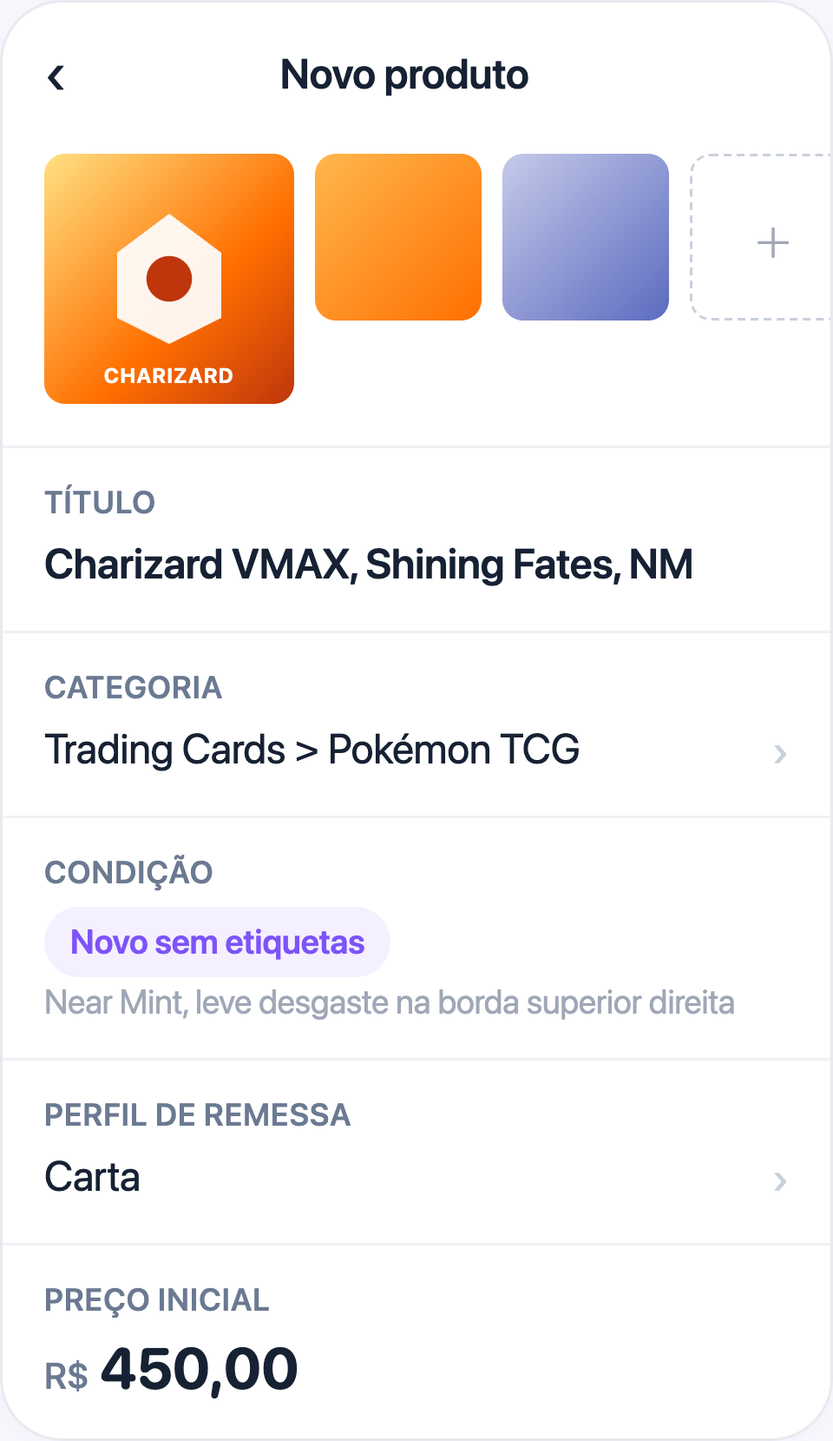
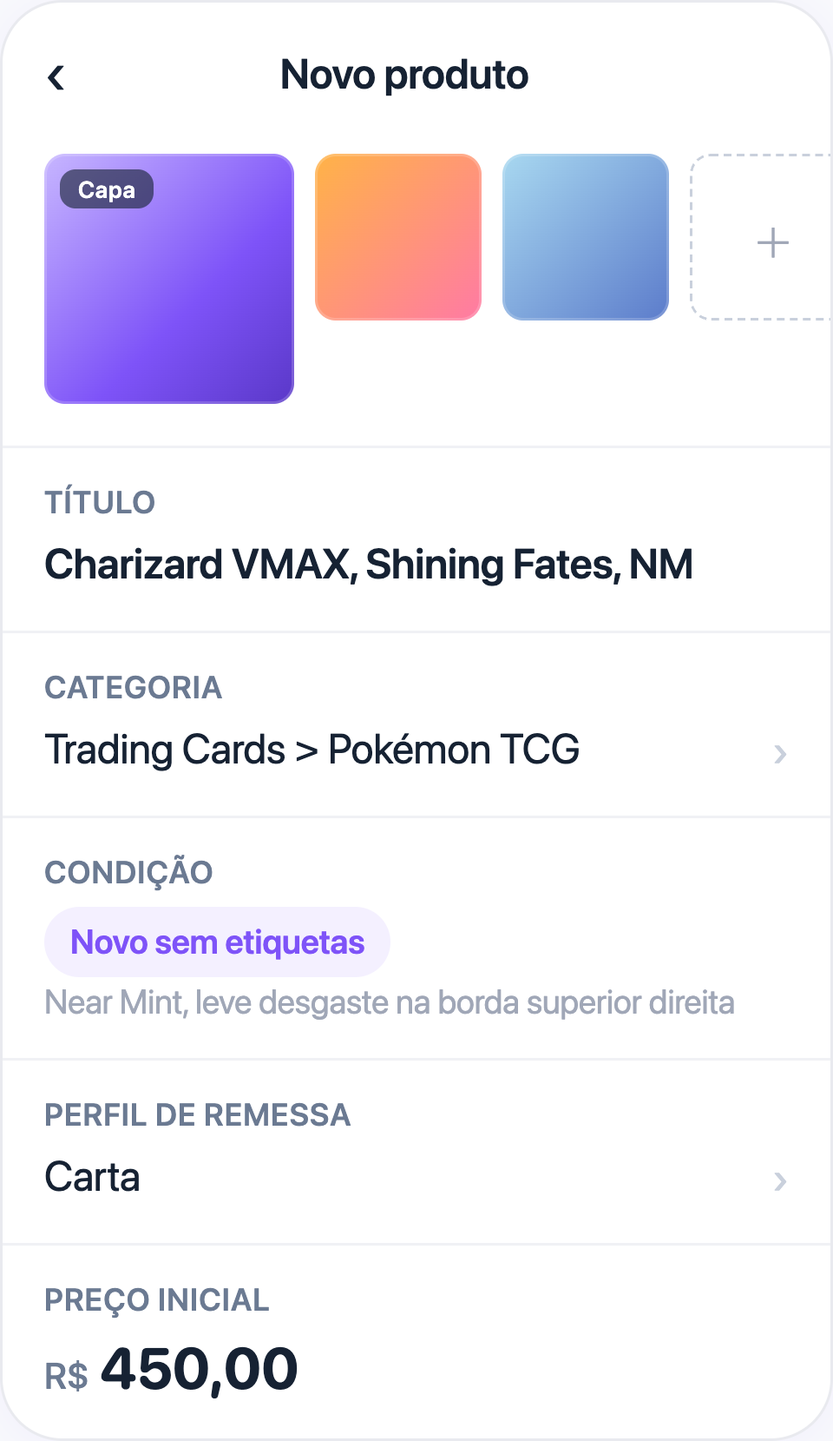
cards-collectibles: clean Jamble DA on sample-listing + photo-checklist + condition-guide
Aymar flagged: 'fait ca proprement, utilise les vrais couleurs, les vraies icones'.

- sample-listing: replace orange hexagon 'CHARIZARD' cartoon with clean
  Jamble-purple gradient cover placeholder + 'Cover' badge. Other thumbs use
  soft orange-pink and blue gradients (no characters).
- photo-checklist: replace cartoon hexagons in good/bad cells with realistic
  card-shaped placeholders (purple gradient on dark bg = good, with glare
  hotspot or blur = bad).
- condition-guide: replace orange swatches with photo-style mini-cards
  showing progressive wear (clean -> scuff -> scratch -> bent corner ->
  heavy creases) on dark bg, using brand purple.
- pack-opening-toggle: re-rendered for consistency (already clean).

All 8 PNGs (4 mockups x 2 locales) re-rendered at DPR3.

Changed region(s): [[0.0312, 0.0922, 0.6562, 0.3074], [0.7812, 0.1844, 0.8125, 0.2152]]

diff --git a/articles/cards-and-collectibles-best-practices-for-sellers/mockup-sources/condition-guide__en.html b/articles/cards-and-collectibles-best-practices-for-sellers/mockup-sources/condition-guide__en.html
@@ -7,13 +7,29 @@ body { font-family: -apple-system, "SF Pro Display", BlinkMacSystemFont, system-
 .section-title { font-size: 12px; font-weight: 600; color: #6B7A92; text-transform: uppercase; letter-spacing: 0.4px; padding: 12px 16px 6px; }
 
 .row { display: flex; align-items: flex-start; padding: 12px 16px; border-top: 1px solid #F0F1F5; gap: 12px; }
-.swatch { width: 56px; height: 56px; border-radius: 8px; flex-shrink: 0; background: linear-gradient(135deg, #FFE082 0%, #FF6F00 60%, #BF360C 100%); display: flex; align-items: center; justify-content: center; }
-.swatch svg { width: 36px; height: 36px; }
-.swatch.s1 { filter: none; }
-.swatch.s2 { filter: brightness(0.96) contrast(0.98); }
-.swatch.s3 { filter: brightness(0.92) contrast(0.95) saturate(0.9); }
-.swatch.s4 { filter: brightness(0.86) contrast(0.92) saturate(0.78); }
-.swatch.s5 { filter: brightness(0.78) contrast(0.88) saturate(0.6) sepia(0.15); }
+
+.swatch { width: 56px; height: 56px; border-radius: 8px; flex-shrink: 0; background: radial-gradient(ellipse at center, #1F2A3B 0%, #0E1623 100%); display: flex; align-items: center; justify-content: center; position: relative; overflow: hidden; }
+.swatch .card { width: 60%; height: 78%; border-radius: 4px; background: linear-gradient(160deg, #C7B6FF 0%, #7E53F8 55%, #5A38C8 100%); position: relative; box-shadow: 0 1px 3px rgba(0,0,0,0.4), inset 0 0 0 1px rgba(255,255,255,0.18); overflow: hidden; }
+.swatch .card::before { content: ""; position: absolute; inset: 4px 4px auto 4px; height: 36%; border-radius: 2px; background: rgba(255,255,255,0.12); }
+
+/* s1: pristine */
+
+/* s2: NM — one tiny scuff top-right */
+.swatch.s2 .card::after { content: ""; position: absolute; top: 6%; right: 8%; width: 16%; height: 4%; background: rgba(255,255,255,0.32); border-radius: 1px; transform: rotate(-15deg); }
+
+/* s3: LP — small scratch + corner ding */
+.swatch.s3 .card::after { content: ""; position: absolute; top: 30%; left: 10%; width: 60%; height: 3%; background: rgba(255,255,255,0.30); border-radius: 1px; transform: rotate(-6deg); box-shadow: 0 8px 0 -1px rgba(0,0,0,0.18); }
+
+/* s4: MP — bent corner + visible smudges */
+.swatch.s4 .card { background: linear-gradient(160deg, #B5A5E8 0%, #7048D8 55%, #4F2EB0 100%); }
+.swatch.s4 .card::after { content: ""; position: absolute; bottom: -6%; right: -6%; width: 30%; height: 30%; background: #0E1623; transform: rotate(45deg); border-radius: 2px; }
+
+/* s5: HP — heavy creases (X across), darker desat */
+.swatch.s5 .card { background: linear-gradient(160deg, #9C8DC8 0%, #5A40A8 55%, #3F267D 100%); }
+.swatch.s5 .card::after { content: ""; position: absolute; top: 0; left: 0; right: 0; bottom: 0; background:
+  linear-gradient(28deg, transparent 47%, rgba(0,0,0,0.55) 49%, rgba(255,255,255,0.20) 51%, transparent 53%),
+  linear-gradient(-32deg, transparent 47%, rgba(0,0,0,0.45) 49%, rgba(255,255,255,0.16) 51%, transparent 53%);
+}
 
 .row-info { flex: 1; min-width: 0; }
 .row-head { display: flex; align-items: center; gap: 8px; margin-bottom: 3px; flex-wrap: wrap; }
@@ -31,7 +47,7 @@ body { font-family: -apple-system, "SF Pro Display", BlinkMacSystemFont, system-
 <div class="section-title">TCG Cards</div>
 
 <div class="row">
-<div class="swatch s1"><svg viewBox="0 0 24 24"><path d="M12 2 L20 8 L20 18 L12 22 L4 18 L4 8 Z" fill="#FFFFFF" opacity="0.95"/><circle cx="12" cy="12" r="3.5" fill="#BF360C"/></svg></div>
+<div class="swatch s1"><div class="card"></div></div>
 <div class="row-info">
 <div class="row-head"><span class="pill pill-1">PSA 10 / Mint</span></div>
 <div class="row-name">New with Tags</div>
@@ -40,7 +56,7 @@ body { font-family: -apple-system, "SF Pro Display", BlinkMacSystemFont, system-
 </div>
 
 <div class="row">
-<div class="swatch s2"><svg viewBox="0 0 24 24"><path d="M12 2 L20 8 L20 18 L12 22 L4 18 L4 8 Z" fill="#FFFFFF" opacity="0.95"/><circle cx="12" cy="12" r="3.5" fill="#BF360C"/></svg></div>
+<div class="swatch s2"><div class="card"></div></div>
 <div class="row-info">
 <div class="row-head"><span class="pill pill-2">NM, Near Mint</span></div>
 <div class="row-name">New without Tags</div>
@@ -49,7 +65,7 @@ body { font-family: -apple-system, "SF Pro Display", BlinkMacSystemFont, system-
 </div>
 
 <div class="row">
-<div class="swatch s3"><svg viewBox="0 0 24 24"><path d="M12 2 L20 8 L20 18 L12 22 L4 18 L4 8 Z" fill="#FFFFFF" opacity="0.95"/><circle cx="12" cy="12" r="3.5" fill="#BF360C"/></svg></div>
+<div class="swatch s3"><div class="card"></div></div>
 <div class="row-info">
 <div class="row-head"><span class="pill pill-3">LP, Light Play</span></div>
 <div class="row-name">Very Good</div>
@@ -58,7 +74,7 @@ body { font-family: -apple-system, "SF Pro Display", BlinkMacSystemFont, system-
 </div>
 
 <div class="row">
-<div class="swatch s4"><svg viewBox="0 0 24 24"><path d="M12 2 L20 8 L20 18 L12 22 L4 18 L4 8 Z" fill="#FFFFFF" opacity="0.95"/><circle cx="12" cy="12" r="3.5" fill="#BF360C"/></svg></div>
+<div class="swatch s4"><div class="card"></div></div>
 <div class="row-info">
 <div class="row-head"><span class="pill pill-4">MP, Moderately Played</span></div>
 <div class="row-name">Good</div>
@@ -67,7 +83,7 @@ body { font-family: -apple-system, "SF Pro Display", BlinkMacSystemFont, system-
 </div>
 
 <div class="row">
-<div class="swatch s5"><svg viewBox="0 0 24 24"><path d="M12 2 L20 8 L20 18 L12 22 L4 18 L4 8 Z" fill="#FFFFFF" opacity="0.95"/><circle cx="12" cy="12" r="3.5" fill="#BF360C"/></svg></div>
+<div class="swatch s5"><div class="card"></div></div>
 <div class="row-info">
 <div class="row-head"><span class="pill pill-5">HP, Heavily Played</span></div>
 <div class="row-name">Satisfactory</div>

diff --git a/articles/cards-and-collectibles-best-practices-for-sellers/mockup-sources/condition-guide__pt-br.html b/articles/cards-and-collectibles-best-practices-for-sellers/mockup-sources/condition-guide__pt-br.html
@@ -7,13 +7,23 @@ body { font-family: -apple-system, "SF Pro Display", BlinkMacSystemFont, system-
 .section-title { font-size: 12px; font-weight: 600; color: #6B7A92; text-transform: uppercase; letter-spacing: 0.4px; padding: 12px 16px 6px; }
 
 .row { display: flex; align-items: flex-start; padding: 12px 16px; border-top: 1px solid #F0F1F5; gap: 12px; }
-.swatch { width: 56px; height: 56px; border-radius: 8px; flex-shrink: 0; background: linear-gradient(135deg, #FFE082 0%, #FF6F00 60%, #BF360C 100%); display: flex; align-items: center; justify-content: center; }
-.swatch svg { width: 36px; height: 36px; }
-.swatch.s1 { filter: none; }
-.swatch.s2 { filter: brightness(0.96) contrast(0.98); }
-.swatch.s3 { filter: brightness(0.92) contrast(0.95) saturate(0.9); }
-.swatch.s4 { filter: brightness(0.86) contrast(0.92) saturate(0.78); }
-.swatch.s5 { filter: brightness(0.78) contrast(0.88) saturate(0.6) sepia(0.15); }
+
+.swatch { width: 56px; height: 56px; border-radius: 8px; flex-shrink: 0; background: radial-gradient(ellipse at center, #1F2A3B 0%, #0E1623 100%); display: flex; align-items: center; justify-content: center; position: relative; overflow: hidden; }
+.swatch .card { width: 60%; height: 78%; border-radius: 4px; background: linear-gradient(160deg, #C7B6FF 0%, #7E53F8 55%, #5A38C8 100%); position: relative; box-shadow: 0 1px 3px rgba(0,0,0,0.4), inset 0 0 0 1px rgba(255,255,255,0.18); overflow: hidden; }
+.swatch .card::before { content: ""; position: absolute; inset: 4px 4px auto 4px; height: 36%; border-radius: 2px; background: rgba(255,255,255,0.12); }
+
+.swatch.s2 .card::after { content: ""; position: absolute; top: 6%; right: 8%; width: 16%; height: 4%; background: rgba(255,255,255,0.32); border-radius: 1px; transform: rotate(-15deg); }
+
+.swatch.s3 .card::after { content: ""; position: absolute; top: 30%; left: 10%; width: 60%; height: 3%; background: rgba(255,255,255,0.30); border-radius: 1px; transform: rotate(-6deg); box-shadow: 0 8px 0 -1px rgba(0,0,0,0.18); }
+
+.swatch.s4 .card { background: linear-gradient(160deg, #B5A5E8 0%, #7048D8 55%, #4F2EB0 100%); }
+.swatch.s4 .card::after { content: ""; position: absolute; bottom: -6%; right: -6%; width: 30%; height: 30%; background: #0E1623; transform: rotate(45deg); border-radius: 2px; }
+
+.swatch.s5 .card { background: linear-gradient(160deg, #9C8DC8 0%, #5A40A8 55%, #3F267D 100%); }
+.swatch.s5 .card::after { content: ""; position: absolute; top: 0; left: 0; right: 0; bottom: 0; background:
+  linear-gradient(28deg, transparent 47%, rgba(0,0,0,0.55) 49%, rgba(255,255,255,0.20) 51%, transparent 53%),
+  linear-gradient(-32deg, transparent 47%, rgba(0,0,0,0.45) 49%, rgba(255,255,255,0.16) 51%, transparent 53%);
+}
 
 .row-info { flex: 1; min-width: 0; }
 .row-head { display: flex; align-items: center; gap: 8px; margin-bottom: 3px; flex-wrap: wrap; }
@@ -31,7 +41,7 @@ body { font-family: -apple-system, "SF Pro Display", BlinkMacSystemFont, system-
 <div class="section-title">Cards de TCG</div>
 
 <div class="row">
-<div class="swatch s1"><svg viewBox="0 0 24 24"><path d="M12 2 L20 8 L20 18 L12 22 L4 18 L4 8 Z" fill="#FFFFFF" opacity="0.95"/><circle cx="12" cy="12" r="3.5" fill="#BF360C"/></svg></div>
+<div class="swatch s1"><div class="card"></div></div>
 <div class="row-info">
 <div class="row-head"><span class="pill pill-1">PSA 10 / Mint</span></div>
 <div class="row-name">Novo com etiquetas</div>
@@ -40,7 +50,7 @@ body { font-family: -apple-system, "SF Pro Display", BlinkMacSystemFont, system-
 </div>
 
 <div class="row">
-<div class="swatch s2"><svg viewBox="0 0 24 24"><path d="M12 2 L20 8 L20 18 L12 22 L4 18 L4 8 Z" fill="#FFFFFF" opacity="0.95"/><circle cx="12" cy="12" r="3.5" fill="#BF360C"/></svg></div>
+<div class="swatch s2"><div class="card"></div></div>
 <div class="row-info">
 <div class="row-head"><span class="pill pill-2">NM, Near Mint</span></div>
 <div class="row-name">Novo sem etiquetas</div>
@@ -49,16 +59,16 @@ body { font-family: -apple-system, "SF Pro Display", BlinkMacSystemFont, system-
 </div>
 
 <div class="row">
-<div class="swatch s3"><svg viewBox="0 0 24 24"><path d="M12 2 L20 8 L20 18 L12 22 L4 18 L4 8 Z" fill="#FFFFFF" opacity="0.95"/><circle cx="12" cy="12" r="3.5" fill="#BF360C"/></svg></div>
+<div class="swatch s3"><div class="card"></div></div>
 <div class="row-info">
 <div class="row-head"><span class="pill pill-3">LP, Light Play</span></div>
 <div class="row-name">Muito bom</div>
-<div class="row-desc">Leve desgaste de jogo. Card jogável e intacta.</div>
+<div class="row-desc">Leve desgaste de jogo. Carta jogável e intacta.</div>
 </div>
 </div>
 
 <div class="row">
-<div class="swatch s4"><svg viewBox="0 0 24 24"><path d="M12 2 L20 8 L20 18 L12 22 L4 18 L4 8 Z" fill="#FFFFFF" opacity="0.95"/><circle cx="12" cy="12" r="3.5" fill="#BF360C"/></svg></div>
+<div class="swatch s4"><div class="card"></div></div>
 <div class="row-info">
 <div class="row-head"><span class="pill pill-4">MP, Moderately Played</span></div>
 <div class="row-name">Bom</div>
@@ -67,7 +77,7 @@ body { font-family: -apple-system, "SF Pro Display", BlinkMacSystemFont, system-
 </div>
 
 <div class="row">
-<div class="swatch s5"><svg viewBox="0 0 24 24"><path d="M12 2 L20 8 L20 18 L12 22 L4 18 L4 8 Z" fill="#FFFFFF" opacity="0.95"/><circle cx="12" cy="12" r="3.5" fill="#BF360C"/></svg></div>
+<div class="swatch s5"><div class="card"></div></div>
 <div class="row-info">
 <div class="row-head"><span class="pill pill-5">HP, Heavily Played</span></div>
 <div class="row-name">Satisfatório</div>

diff --git a/articles/cards-and-collectibles-best-practices-for-sellers/mockup-sources/photo-checklist__pt-br.html b/articles/cards-and-collectibles-best-practices-for-sellers/mockup-sources/photo-checklist__pt-br.html
@@ -14,15 +14,26 @@ body { font-family: -apple-system, "SF Pro Display", BlinkMacSystemFont, system-
 .cross { width: 12px; height: 12px; border-radius: 50%; background: #B12B2B; color: white; font-size: 9px; display: flex; align-items: center; justify-content: center; font-weight: 700; }
 
 .grid { display: grid; grid-template-columns: 1fr 1fr; gap: 8px; padding: 0 12px 8px; }
-.cell { aspect-ratio: 1; border-radius: 8px; overflow: hidden; position: relative; display: flex; align-items: center; justify-content: center; }
-.cell-good-1 { background: #16202B; }
-.cell-good-1 svg { width: 60%; height: 70%; filter: drop-shadow(0 2px 6px rgba(255,255,255,0.06)); }
-.cell-good-2 { background: #1A2230; }
-.cell-good-2 svg { width: 80%; height: 50%; }
-.cell-bad-1 { background: linear-gradient(135deg, #FFD180 0%, #FF6F00 60%, #FFFFFF 65%, #FF6F00 80%, #BF360C 100%); }
-.cell-bad-1 svg { width: 55%; height: 65%; opacity: 0.55; }
-.cell-bad-2 { background: linear-gradient(180deg, #DDDDDD 0%, #888888 100%); position: relative; }
-.cell-bad-2::before { content: ""; position: absolute; inset: 25%; background: rgba(0,0,0,0.45); border-radius: 4px; transform: rotate(-8deg); filter: blur(2px); }
+.cell { aspect-ratio: 1; border-radius: 10px; overflow: hidden; position: relative; }
+
+/* GOOD: portrait card centered on dark bg, sharp edges, gentle highlight */
+.cell-good-1 { background: radial-gradient(ellipse at center, #1F2A3B 0%, #0E1623 100%); display: flex; align-items: center; justify-content: center; }
+.cell-good-1 .card-shape { width: 44%; height: 70%; border-radius: 6px; background: linear-gradient(160deg, #C7B6FF 0%, #7E53F8 55%, #5A38C8 100%); box-shadow: 0 2px 6px rgba(0,0,0,0.45), inset 0 0 0 1.5px rgba(255,255,255,0.18); position: relative; }
+.cell-good-1 .card-shape::after { content: ""; position: absolute; inset: 8px 8px auto 8px; height: 38%; border-radius: 3px; background: rgba(255,255,255,0.10); }
+
+/* GOOD 2: card in toploader, back visible, lit evenly */
+.cell-good-2 { background: radial-gradient(ellipse at center, #1F2A3B 0%, #0E1623 100%); display: flex; align-items: center; justify-content: center; }
+.cell-good-2 .toploader { width: 56%; height: 78%; border-radius: 4px; background: rgba(255,255,255,0.06); box-shadow: inset 0 0 0 1.5px rgba(255,255,255,0.35); display: flex; align-items: center; justify-content: center; padding: 4px; }
+.cell-good-2 .toploader .card-back { width: 100%; height: 100%; border-radius: 3px; background: linear-gradient(140deg, #2D5BD7 0%, #162233 100%); box-shadow: inset 0 0 0 1px rgba(255,255,255,0.10); }
+
+/* BAD 1: glare hotspot, blown highlights on foil */
+.cell-bad-1 { background: linear-gradient(135deg, #2A2438 0%, #1A2230 60%, #0E1623 100%); display: flex; align-items: center; justify-content: center; position: relative; overflow: hidden; }
+.cell-bad-1 .card-shape { width: 44%; height: 70%; border-radius: 6px; background: linear-gradient(160deg, #C7B6FF 0%, #7E53F8 55%, #5A38C8 100%); position: relative; overflow: hidden; box-shadow: 0 2px 6px rgba(0,0,0,0.45); }
+.cell-bad-1 .glare { position: absolute; top: -40%; left: -10%; width: 140%; height: 180%; background: linear-gradient(115deg, transparent 38%, rgba(255,255,255,0.92) 48%, rgba(255,255,255,0.98) 52%, transparent 62%); transform: rotate(-12deg); pointer-events: none; }
+
+/* BAD 2: out of focus, off-center */
+.cell-bad-2 { background: linear-gradient(180deg, #DDDDDD 0%, #888888 100%); display: flex; align-items: center; justify-content: flex-start; padding: 22% 0 0 16%; }
+.cell-bad-2 .blur-card { width: 50%; height: 64%; border-radius: 6px; background: linear-gradient(160deg, rgba(126,83,248,0.55) 0%, rgba(90,56,200,0.65) 100%); transform: rotate(-8deg); filter: blur(3px); box-shadow: 0 4px 14px rgba(0,0,0,0.35); }
 
 .cap { padding: 4px 8px; font-size: 11px; color: #6B7A92; text-align: center; line-height: 14px; min-height: 30px; }
 .cap-row { display: grid; grid-template-columns: 1fr 1fr; gap: 8px; padding: 0 12px; }
@@ -36,8 +47,8 @@ body { font-family: -apple-system, "SF Pro Display", BlinkMacSystemFont, system-
 </div>
 
 <div class="grid">
-<div class="cell cell-good-1"><svg viewBox="0 0 24 24"><path d="M12 2 L20 8 L20 18 L12 22 L4 18 L4 8 Z" fill="#FF6F00"/><circle cx="12" cy="12" r="3" fill="#FFE082"/></svg></div>
-<div class="cell cell-bad-1"><svg viewBox="0 0 24 24"><path d="M12 2 L20 8 L20 18 L12 22 L4 18 L4 8 Z" fill="#BF360C"/><circle cx="12" cy="12" r="3" fill="#FFE082"/></svg></div>
+<div class="cell cell-good-1"><div class="card-shape"></div></div>
+<div class="cell cell-bad-1"><div class="card-shape"></div><div class="glare"></div></div>
 </div>
 <div class="cap-row">
 <div class="cap">Fundo escuro liso, foco nítido</div>
@@ -45,11 +56,11 @@ body { font-family: -apple-system, "SF Pro Display", BlinkMacSystemFont, system-
 </div>
 
 <div class="grid" style="margin-top: 4px;">
-<div class="cell cell-good-2"><svg viewBox="0 0 60 38"><rect x="2" y="2" width="56" height="34" rx="2" fill="#FF6F00" stroke="#FFFFFF" stroke-width="0.5"/><rect x="6" y="6" width="48" height="26" rx="1" fill="#FFE082" opacity="0.8"/></svg></div>
-<div class="cell cell-bad-2"></div>
+<div class="cell cell-good-2"><div class="toploader"><div class="card-back"></div></div></div>
+<div class="cell cell-bad-2"><div class="blur-card"></div></div>
 </div>
 <div class="cap-row">
-<div class="cap">Verso da card e toploader visíveis</div>
+<div class="cap">Verso da carta e toploader visíveis</div>
 <div class="cap">Foto desfocada, desencaixada</div>
 </div>
 

diff --git a/articles/cards-and-collectibles-best-practices-for-sellers/mockup-sources/photo-checklist__en.html b/articles/cards-and-collectibles-best-practices-for-sellers/mockup-sources/photo-checklist__en.html
@@ -14,15 +14,26 @@ body { font-family: -apple-system, "SF Pro Display", BlinkMacSystemFont, system-
 .cross { width: 12px; height: 12px; border-radius: 50%; background: #B12B2B; color: white; font-size: 9px; display: flex; align-items: center; justify-content: center; font-weight: 700; }
 
 .grid { display: grid; grid-template-columns: 1fr 1fr; gap: 8px; padding: 0 12px 8px; }
-.cell { aspect-ratio: 1; border-radius: 8px; overflow: hidden; position: relative; display: flex; align-items: center; justify-content: center; }
-.cell-good-1 { background: #16202B; }
-.cell-good-1 svg { width: 60%; height: 70%; filter: drop-shadow(0 2px 6px rgba(255,255,255,0.06)); }
-.cell-good-2 { background: #1A2230; }
-.cell-good-2 svg { width: 80%; height: 50%; }
-.cell-bad-1 { background: linear-gradient(135deg, #FFD180 0%, #FF6F00 60%, #FFFFFF 65%, #FF6F00 80%, #BF360C 100%); }
-.cell-bad-1 svg { width: 55%; height: 65%; opacity: 0.55; }
-.cell-bad-2 { background: linear-gradient(180deg, #DDDDDD 0%, #888888 100%); position: relative; }
-.cell-bad-2::before { content: ""; position: absolute; inset: 25%; background: rgba(0,0,0,0.45); border-radius: 4px; transform: rotate(-8deg); filter: blur(2px); }
+.cell { aspect-ratio: 1; border-radius: 10px; overflow: hidden; position: relative; }
+
+/* GOOD: portrait card centered on dark bg, sharp edges, gentle highlight */
+.cell-good-1 { background: radial-gradient(ellipse at center, #1F2A3B 0%, #0E1623 100%); display: flex; align-items: center; justify-content: center; }
+.cell-good-1 .card-shape { width: 44%; height: 70%; border-radius: 6px; background: linear-gradient(160deg, #C7B6FF 0%, #7E53F8 55%, #5A38C8 100%); box-shadow: 0 2px 6px rgba(0,0,0,0.45), inset 0 0 0 1.5px rgba(255,255,255,0.18); position: relative; }
+.cell-good-1 .card-shape::after { content: ""; position: absolute; inset: 8px 8px auto 8px; height: 38%; border-radius: 3px; background: rgba(255,255,255,0.10); }
+
+/* GOOD 2: card in toploader, back visible, lit evenly */
+.cell-good-2 { background: radial-gradient(ellipse at center, #1F2A3B 0%, #0E1623 100%); display: flex; align-items: center; justify-content: center; }
+.cell-good-2 .toploader { width: 56%; height: 78%; border-radius: 4px; background: rgba(255,255,255,0.06); box-shadow: inset 0 0 0 1.5px rgba(255,255,255,0.35); display: flex; align-items: center; justify-content: center; padding: 4px; }
+.cell-good-2 .toploader .card-back { width: 100%; height: 100%; border-radius: 3px; background: linear-gradient(140deg, #2D5BD7 0%, #162233 100%); box-shadow: inset 0 0 0 1px rgba(255,255,255,0.10); }
+
+/* BAD 1: glare hotspot, blown highlights on foil */
+.cell-bad-1 { background: linear-gradient(135deg, #2A2438 0%, #1A2230 60%, #0E1623 100%); display: flex; align-items: center; justify-content: center; position: relative; overflow: hidden; }
+.cell-bad-1 .card-shape { width: 44%; height: 70%; border-radius: 6px; background: linear-gradient(160deg, #C7B6FF 0%, #7E53F8 55%, #5A38C8 100%); position: relative; overflow: hidden; box-shadow: 0 2px 6px rgba(0,0,0,0.45); }
+.cell-bad-1 .glare { position: absolute; top: -40%; left: -10%; width: 140%; height: 180%; background: linear-gradient(115deg, transparent 38%, rgba(255,255,255,0.92) 48%, rgba(255,255,255,0.98) 52%, transparent 62%); transform: rotate(-12deg); pointer-events: none; }
+
+/* BAD 2: out of focus, off-center */
+.cell-bad-2 { background: linear-gradient(180deg, #DDDDDD 0%, #888888 100%); display: flex; align-items: center; justify-content: flex-start; padding: 22% 0 0 16%; }
+.cell-bad-2 .blur-card { width: 50%; height: 64%; border-radius: 6px; background: linear-gradient(160deg, rgba(126,83,248,0.55) 0%, rgba(90,56,200,0.65) 100%); transform: rotate(-8deg); filter: blur(3px); box-shadow: 0 4px 14px rgba(0,0,0,0.35); }
 
 .cap { padding: 4px 8px; font-size: 11px; color: #6B7A92; text-align: center; line-height: 14px; min-height: 30px; }
 .cap-row { display: grid; grid-template-columns: 1fr 1fr; gap: 8px; padding: 0 12px; }
@@ -36,8 +47,8 @@ body { font-family: -apple-system, "SF Pro Display", BlinkMacSystemFont, system-
 </div>
 
 <div class="grid">
-<div class="cell cell-good-1"><svg viewBox="0 0 24 24"><path d="M12 2 L20 8 L20 18 L12 22 L4 18 L4 8 Z" fill="#FF6F00"/><circle cx="12" cy="12" r="3" fill="#FFE082"/></svg></div>
-<div class="cell cell-bad-1"><svg viewBox="0 0 24 24"><path d="M12 2 L20 8 L20 18 L12 22 L4 18 L4 8 Z" fill="#BF360C"/><circle cx="12" cy="12" r="3" fill="#FFE082"/></svg></div>
+<div class="cell cell-good-1"><div class="card-shape"></div></div>
+<div class="cell cell-bad-1"><div class="card-shape"></div><div class="glare"></div></div>
 </div>
 <div class="cap-row">
 <div class="cap">Plain dark background, sharp focus</div>
@@ -45,8 +56,8 @@ body { font-family: -apple-system, "SF Pro Display", BlinkMacSystemFont, system-
 </div>
 
 <div class="grid" style="margin-top: 4px;">
-<div class="cell cell-good-2"><svg viewBox="0 0 60 38"><rect x="2" y="2" width="56" height="34" rx="2" fill="#FF6F00" stroke="#FFFFFF" stroke-width="0.5"/><rect x="6" y="6" width="48" height="26" rx="1" fill="#FFE082" opacity="0.8"/></svg></div>
-<div class="cell cell-bad-2"></div>
+<div class="cell cell-good-2"><div class="toploader"><div class="card-back"></div></div></div>
+<div class="cell cell-bad-2"><div class="blur-card"></div></div>
 </div>
 <div class="cap-row">
 <div class="cap">Card back and toploader visible</div>

diff --git a/articles/cards-and-collectibles-best-practices-for-sellers/mockup-sources/sample-listing__en.html b/articles/cards-and-collectibles-best-practices-for-sellers/mockup-sources/sample-listing__en.html
@@ -8,12 +8,11 @@ body { font-family: -apple-system, "SF Pro Display", BlinkMacSystemFont, system-
 .nav-spacer { width: 18px; }
 
 .photos { display: flex; gap: 8px; padding: 8px 16px 16px; overflow: hidden; }
-.photo-cover { width: 96px; height: 96px; border-radius: 8px; background: linear-gradient(135deg, #FFE082 0%, #FF6F00 60%, #BF360C 100%); position: relative; flex-shrink: 0; display: flex; align-items: center; justify-content: center; }
-.photo-cover::after { content: "CHARIZARD"; position: absolute; bottom: 6px; left: 0; right: 0; text-align: center; font-size: 8px; font-weight: 700; color: #FFFFFF; letter-spacing: 0.5px; }
-.photo-cover svg { width: 60px; height: 60px; }
-.photo-thumb { width: 64px; height: 64px; border-radius: 8px; flex-shrink: 0; }
-.photo-thumb-1 { background: linear-gradient(135deg, #FFB74D 0%, #FF6F00 100%); }
-.photo-thumb-2 { background: linear-gradient(135deg, #C5CAE9 0%, #5C6BC0 100%); }
+.photo-cover { width: 96px; height: 96px; border-radius: 8px; flex-shrink: 0; position: relative; background: linear-gradient(135deg, #C7B6FF 0%, #7E53F8 60%, #5A38C8 100%); box-shadow: inset 0 0 0 1px rgba(255,255,255,0.18); overflow: hidden; }
+.photo-cover .badge-cover { position: absolute; top: 6px; left: 6px; padding: 2px 7px; background: rgba(22,34,51,0.62); color: #FFFFFF; font-size: 9px; font-weight: 600; border-radius: 6px; letter-spacing: 0.3px; }
+.photo-thumb { width: 64px; height: 64px; border-radius: 8px; flex-shrink: 0; box-shadow: inset 0 0 0 1px rgba(255,255,255,0.18); }
+.photo-thumb-1 { background: linear-gradient(135deg, #FFB347 0%, #FF7AA4 100%); }
+.photo-thumb-2 { background: linear-gradient(135deg, #A8D8F0 0%, #5C7CCB 100%); }
 .photo-add { width: 64px; height: 64px; border-radius: 8px; border: 1.5px dashed #C9D0DC; display: flex; align-items: center; justify-content: center; flex-shrink: 0; color: #A0A7B7; font-size: 24px; font-weight: 300; }
 
 .section { padding: 14px 16px; border-top: 1px solid #F0F1F5; }
@@ -34,7 +33,7 @@ body { font-family: -apple-system, "SF Pro Display", BlinkMacSystemFont, system-
 <div class="nav"><div class="nav-back">&#8249;</div><div class="nav-title">New product</div><div class="nav-spacer"></div></div>
 
 <div class="photos">
-<div class="photo-cover"><svg viewBox="0 0 24 24"><path d="M12 2 L20 8 L20 18 L12 22 L4 18 L4 8 Z" fill="#FFFFFF" opacity="0.92"/><circle cx="12" cy="12" r="3.5" fill="#BF360C"/></svg></div>
+<div class="photo-cover"><div class="badge-cover">Cover</div></div>
 <div class="photo-thumb photo-thumb-1"></div>
 <div class="photo-thumb photo-thumb-2"></div>
 <div class="photo-add">+</div>

diff --git a/articles/cards-and-collectibles-best-practices-for-sellers/mockup-sources/sample-listing__pt-br.html b/articles/cards-and-collectibles-best-practices-for-sellers/mockup-sources/sample-listing__pt-br.html
@@ -8,12 +8,11 @@ body { font-family: -apple-system, "SF Pro Display", BlinkMacSystemFont, system-
 .nav-spacer { width: 18px; }
 
 .photos { display: flex; gap: 8px; padding: 8px 16px 16px; overflow: hidden; }
-.photo-cover { width: 96px; height: 96px; border-radius: 8px; background: linear-gradient(135deg, #FFE082 0%, #FF6F00 60%, #BF360C 100%); position: relative; flex-shrink: 0; display: flex; align-items: center; justify-content: center; }
-.photo-cover::after { content: "CHARIZARD"; position: absolute; bottom: 6px; left: 0; right: 0; text-align: center; font-size: 8px; font-weight: 700; color: #FFFFFF; letter-spacing: 0.5px; }
-.photo-cover svg { width: 60px; height: 60px; }
-.photo-thumb { width: 64px; height: 64px; border-radius: 8px; flex-shrink: 0; }
-.photo-thumb-1 { background: linear-gradient(135deg, #FFB74D 0%, #FF6F00 100%); }
-.photo-thumb-2 { background: linear-gradient(135deg, #C5CAE9 0%, #5C6BC0 100%); }
+.photo-cover { width: 96px; height: 96px; border-radius: 8px; flex-shrink: 0; position: relative; background: linear-gradient(135deg, #C7B6FF 0%, #7E53F8 60%, #5A38C8 100%); box-shadow: inset 0 0 0 1px rgba(255,255,255,0.18); overflow: hidden; }
+.photo-cover .badge-cover { position: absolute; top: 6px; left: 6px; padding: 2px 7px; background: rgba(22,34,51,0.62); color: #FFFFFF; font-size: 9px; font-weight: 600; border-radius: 6px; letter-spacing: 0.3px; }
+.photo-thumb { width: 64px; height: 64px; border-radius: 8px; flex-shrink: 0; box-shadow: inset 0 0 0 1px rgba(255,255,255,0.18); }
+.photo-thumb-1 { background: linear-gradient(135deg, #FFB347 0%, #FF7AA4 100%); }
+.photo-thumb-2 { background: linear-gradient(135deg, #A8D8F0 0%, #5C7CCB 100%); }
 .photo-add { width: 64px; height: 64px; border-radius: 8px; border: 1.5px dashed #C9D0DC; display: flex; align-items: center; justify-content: center; flex-shrink: 0; color: #A0A7B7; font-size: 24px; font-weight: 300; }
 
 .section { padding: 14px 16px; border-top: 1px solid #F0F1F5; }
@@ -34,7 +33,7 @@ body { font-family: -apple-system, "SF Pro Display", BlinkMacSystemFont, system-
 <div class="nav"><div class="nav-back">&#8249;</div><div class="nav-title">Novo produto</div><div class="nav-spacer"></div></div>
 
 <div class="photos">
-<div class="photo-cover"><svg viewBox="0 0 24 24"><path d="M12 2 L20 8 L20 18 L12 22 L4 18 L4 8 Z" fill="#FFFFFF" opacity="0.92"/><circle cx="12" cy="12" r="3.5" fill="#BF360C"/></svg></div>
+<div class="photo-cover"><div class="badge-cover">Capa</div></div>
 <div class="photo-thumb photo-thumb-1"></div>
 <div class="photo-thumb photo-thumb-2"></div>
 <div class="photo-add">+</div>
